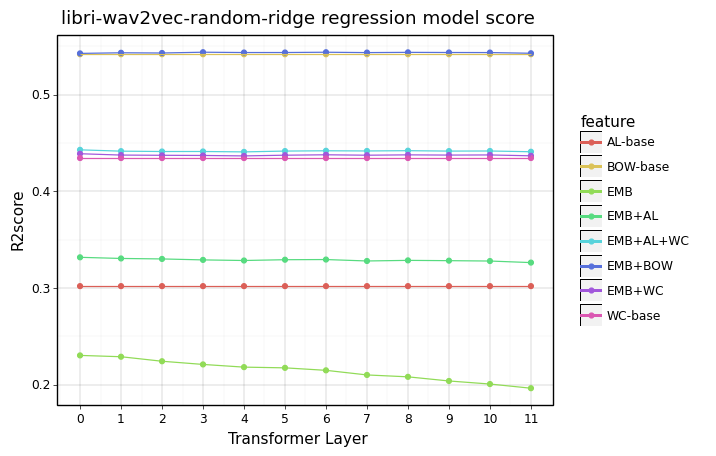
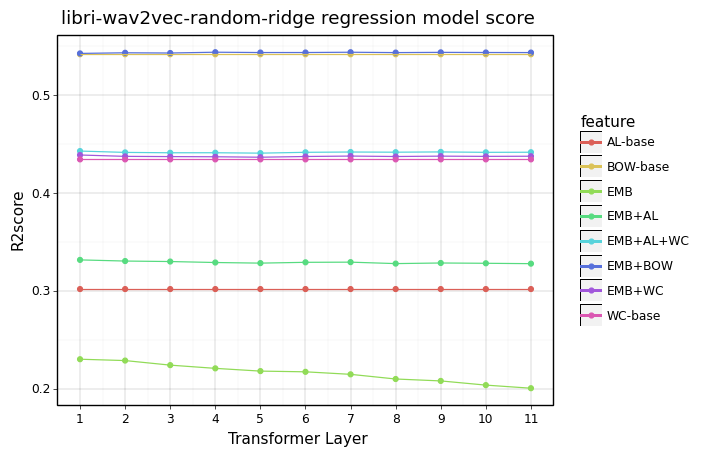
change x-axis on the figures

diff --git a/plot_figs.py b/plot_figs.py
@@ -90,6 +90,7 @@ def ridge_out_plot(ridge_out_file, overwrite = False):
     # return df
     
     df['layer'] = df['layer'].astype('int')
+    df['layer'] += 1
     df = df[df['layer'] <= int(model_layer)]
     df.sort_values(by=['feature'], inplace=True)
     df = df.reset_index(drop=True)
@@ -155,8 +156,8 @@ if __name__ == "__main__":
     result_path = 'ridge-results/'
     result_files = [os.path.join(result_path,x) for x in os.listdir(result_path) if 'ridge' in x]
     for file in result_files:
-        ridge_out_plot(file, overwrite=False)
+        ridge_out_plot(file, overwrite=True)
     
-    draw_rsa_figs('rsa.out')
-    draw_rsa_figs('rsa_delexed.out', True)
+    # draw_rsa_figs('rsa.out')
+    # draw_rsa_figs('rsa_delexed.out', True)
     
